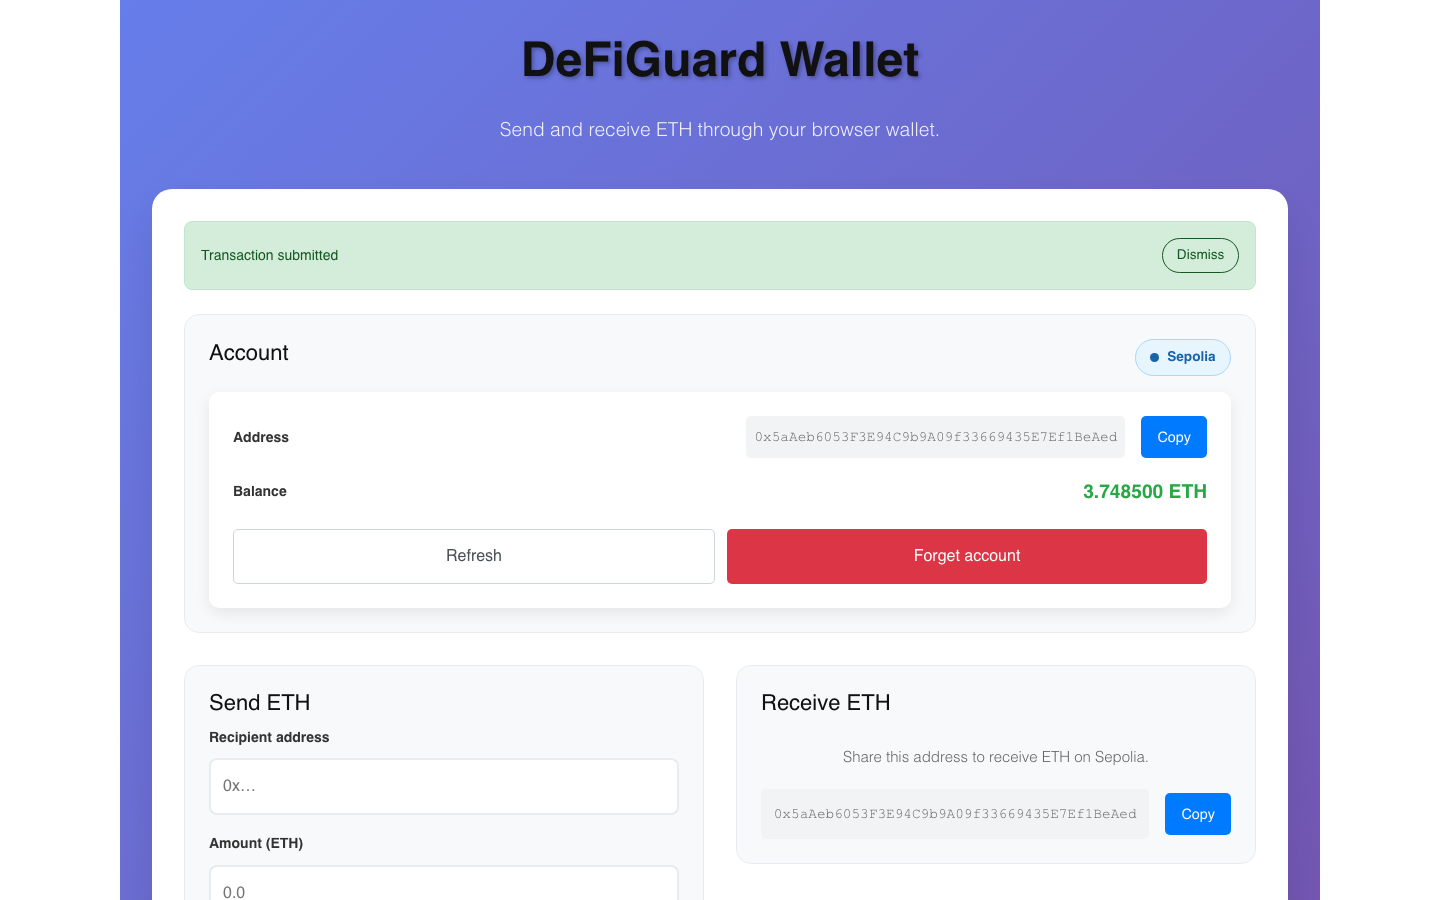
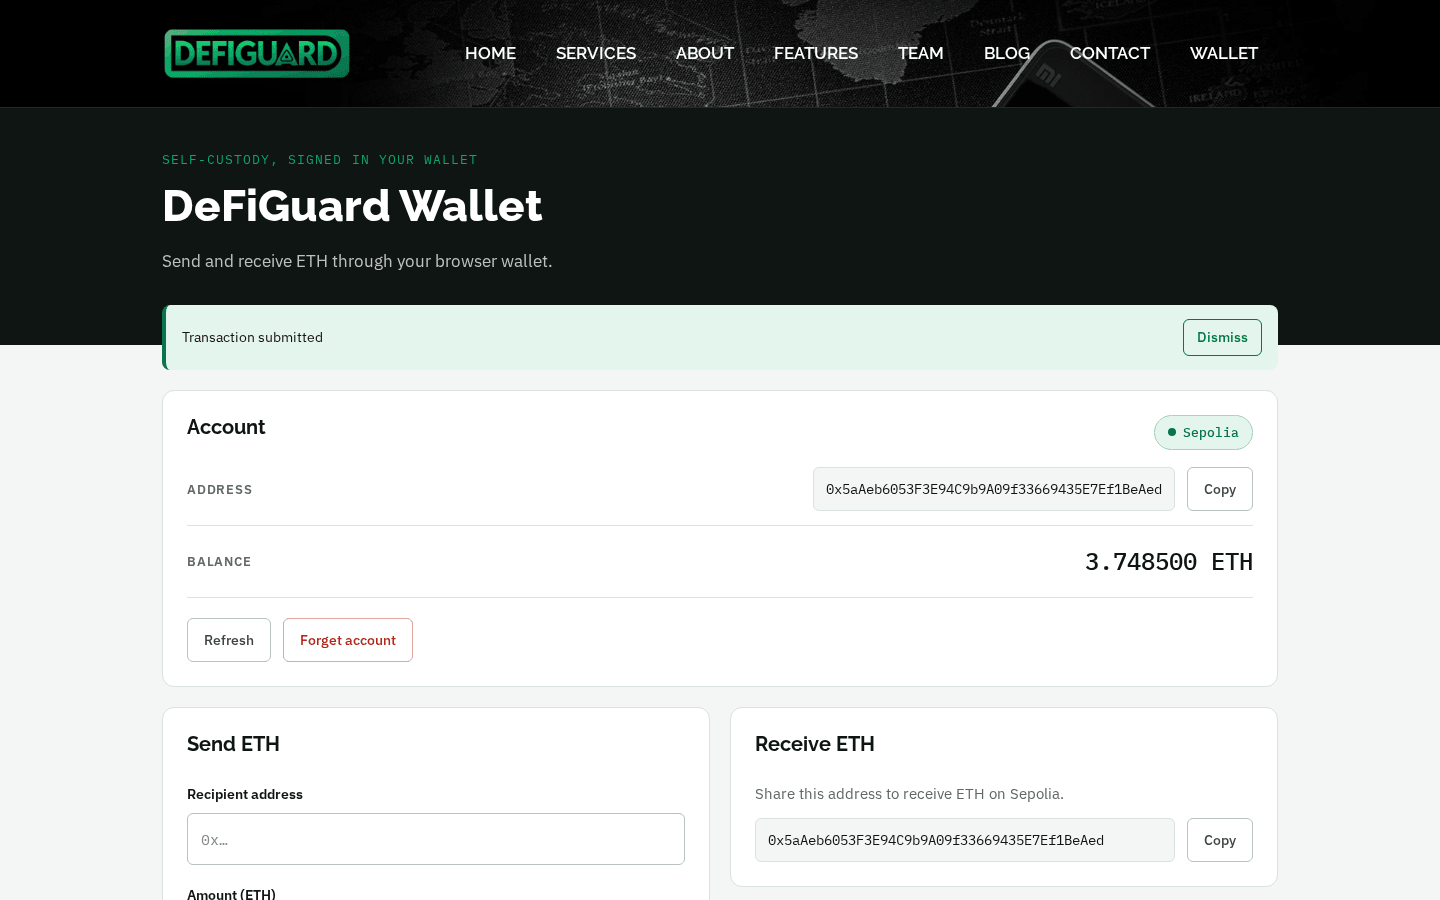
Refresh README, screenshots and capture script for the new UI
- screenshots re-captured from the built app at 1440x900, plus phone
  shots of the wallet and of the landing page with its menu open
- capture script drives a mobile context and documents serving the
  build through the API on :8650
- README: Node 22, current test counts and bundle sizes, the Socket.IO
  token handshake, a route table with a captured response, and the
  container section now that the image has actually been built
- WALLET_README no longer cites a commit hash from history that is not
  part of this repository

diff --git a/README.md b/README.md
@@ -11,6 +11,11 @@ extension; the signing happens in the wallet, after the user approves it.
 
 ![The wallet with a connected Sepolia account, its balance, and the send and receive cards](docs/screenshots/wallet-connected.png)
 
+<p>
+  <img src="docs/screenshots/wallet-mobile.png" width="280" alt="The wallet at phone width: account card with network badge, address, balance and full-width buttons">
+  <img src="docs/screenshots/home-mobile.png" width="280" alt="The landing page at phone width with the navigation menu open">
+</p>
+
 ## Pricing the transfer before validating it
 
 `amount <= balance` is the wrong question. A user who types their whole balance passes
@@ -111,8 +116,8 @@ application mocked.
 
 It is also how the screenshots above exist. `scripts/capture-screenshots.mjs` injects a
 fake provider with Playwright's `addInitScript` before any application code runs, then
-drives the real UI at 1440x900. The two rows in the history table were produced by filling
-in and submitting the form; they were not seeded.
+drives the real UI at 1440x900 and 390x844. The rows in the history table were produced
+by filling in and submitting the form; they were not seeded.
 
 web3.js is kept for exactly one job — `Web3.utils.isAddress`, because checksum validation
 needs keccak. Balances and amounts never go near it.
@@ -124,15 +129,17 @@ lands in its own chunk. Measured with `npm run build`, gzip figures as CRA repor
 
 | Chunk | gzip |
 | --- | --- |
-| `main` — every visitor | 133.5 kB |
-| web3.js chunk — only on `/wallet` | 137.12 kB |
-| `main` CSS | 35.69 kB |
-| `build/static/media` (all emitted assets) | 488 kB |
+| `main` — every visitor | 137.99 kB |
+| web3.js chunk — only on `/wallet` | 135.53 kB |
+| `main` CSS | 35.8 kB |
 
-The four icons on the site are inline SVG rather than an icon font, which is the other
-reason there is no webfont payload.
+The four icons on the site are inline SVG rather than an icon font. Type is Raleway for
+headings with IBM Plex Sans and Plex Mono (addresses, amounts, the network badge), loaded
+from Google Fonts in `public/index.html`.
 
 ## Running it
+
+Node 22 (`.nvmrc`; `engines` says `^22`).
 
 ```bash
 npm install
@@ -159,23 +166,25 @@ npm run build        # production bundle
 `src/` and the API has its own Jest config:
 
 ```
-Test Suites: 7 passed, 7 total
-Tests:       105 passed, 105 total
+Test Suites: 9 passed, 9 total
+Tests:       108 passed, 108 total
 
 Test Suites: 4 passed, 4 total
-Tests:       67 passed, 67 total
+Tests:       69 passed, 69 total
 ```
 
 No test in either suite makes a network request, opens a database, or is capable of
 signing or broadcasting a transaction. The fake provider in `src/lib/wallet/testing/` has
 no key material and no transport.
 
-Re-capturing the screenshots needs a Chromium build for Playwright:
+Re-capturing the screenshots needs a Chromium build for Playwright, and the built app
+served on port 8650 by the API:
 
 ```bash
 npx playwright install chromium
-npm run start-front                    # leave running
-PORT=8650 node scripts/capture-screenshots.mjs
+npm run build
+STATIC_DIR=build API_PORT=8650 npm run start-server   # leave running
+node scripts/capture-screenshots.mjs
 ```
 
 ## Environment variables
@@ -199,25 +208,56 @@ wallet is connected to, so there is no RPC URL to set and no key to supply.
 ## The Express API, and what it is not
 
 `server/` is an account and messaging API — register, log in, list users, set an avatar,
-exchange messages over Socket.IO. **The wallet page never calls it.** It is not part of
+store direct messages, and relay them live over Socket.IO. **The wallet page never calls
+it.** It is not part of
 any flow on this site, and the marketing pages are static.
 
 What it is, taken on its own terms: `server/app.js` builds the Express app with no
 `listen()` and every collaborator injectable, `server/index.js` is process wiring only.
 Controllers are thin HTTP adapters, services hold the rules, and repositories have a
 Mongoose implementation and an in-memory one behind a single interface — which is what
-makes `MONGO_URL` optional rather than fatal, and what lets all 67 API tests run over
+makes `MONGO_URL` optional rather than fatal, and what lets all 69 API tests run over
 supertest with no database. Identity on authenticated routes comes from a verified bearer
 token, not from a URL parameter, and responses are built from an explicit public
 projection so a password hash cannot ride along in one. Reads are paged with the page size
 clamped server-side rather than trusted from the request.
 
-A real captured session — `/health`, register, duplicate register, `/me` with and without
-a token, paginated users, an unknown route — is in
-[`docs/api-session.txt`](docs/api-session.txt), verbatim.
+The socket follows the same rule. A client connects with the token it got from login,
+`io(url, { auth: { token } })`; the handshake is refused without a valid one, the socket's
+user is whoever the token says, and every relayed `msg-receive` carries that verified
+`from`. An earlier version took the user id from the `add-user` payload, so any client
+could register as someone else and receive their messages.
+
+| Route | Auth | Purpose |
+| --- | --- | --- |
+| `GET /health` | no | Liveness, persistence mode, whether auth is enabled |
+| `POST /api/auth/register` | no | Create an account, returns the user and a JWT |
+| `POST /api/auth/login` | no | Exchange username and password for a JWT |
+| `GET /api/auth/me` | yes | The caller's own profile |
+| `GET /api/auth/users?page=&pageSize=` | yes | Everyone except the caller, paged |
+| `POST /api/auth/avatar` | yes | Set the caller's avatar image |
+| `POST /api/messages` | yes | Store a message `{ to, message }` from the caller |
+| `POST /api/messages/search` | yes | The conversation between the caller and `to` |
+
+A real session against the Compose stack — `/health`, register, duplicate register, a bad
+login, `/me` with and without a token, paginated users, sending and reading a message, an
+unknown route, and the socket handshake with and without a token — is in
+[`docs/api-session.txt`](docs/api-session.txt). An excerpt:
+
+```
+$ curl -s -X POST http://localhost:8650/api/auth/login -d '{"username":"grace","password":"wrong"}'
+HTTP 401
+{
+  "error": {
+    "code": "invalid_credentials",
+    "message": "Incorrect username or password."
+  }
+}
+```
 
 The site the wallet lives in is a purchased blockchain-agency template; its copy, team and
-blog entries are the template's placeholder content.
+blog entries are the template's placeholder content, and the team and testimonial photos
+are neutral placeholder silhouettes.
 
 ![The DeFiGuard landing page, a dark blockchain-agency template with the wallet in the nav](docs/screenshots/home.png)
 
@@ -267,12 +307,15 @@ what is implemented now.
 - **Legacy gas only.** Transfers carry `eth_gasPrice` and a gas limit, not an EIP-1559
   `maxFeePerGas`/`maxPriorityFeePerGas` pair. Wallets fill those in, so transfers succeed,
   but the figure in the shortfall message is a legacy-style estimate.
-- **The Mongoose repositories are not integration-tested.** The interface is exercised
-  through the in-memory implementation; the Mongoose side is structurally simple but has
-  not been run against a real MongoDB here.
-- **The contact form does not send mail.** It acknowledges the submission in place and
-  says so.
+- **The Mongoose repositories have no automated tests.** The suites exercise the
+  interface through the in-memory implementation. The Mongoose side has been run by hand
+  against MongoDB 8.2 in the Compose stack (the session in `docs/api-session.txt`), but
+  nothing re-checks it on each change.
+- **Neither the contact form nor the newsletter box sends mail.** Each acknowledges the
+  submission in place and says so. The contact details in the footer are placeholders.
 - **CRA 5 is end-of-life.** Migrating to Vite would touch every file and was not attempted.
+  It also holds Jest at 27 and ESLint at 8, and React Router stays on 6 (the v7 future
+  flags are already on) because CRA's Jest cannot load v7.
 
 ## In a container
 
@@ -281,15 +324,14 @@ JWT_SECRET=$(node -e "console.log(require('crypto').randomBytes(48).toString('he
   docker compose up --build
 ```
 
-Four stages — dependencies, React build, production dependencies, runtime — so the
-shipped image carries no `react-scripts`, no webpack and no test tooling. It runs as the
-unprivileged `node` user under `tini`, so `SIGTERM` reaches the graceful shutdown in
-`server/index.js`, and carries a `HEALTHCHECK` against `/health`. Compose publishes the
-app on <http://localhost:8650> and keeps MongoDB off the host entirely; `JWT_SECRET` is
-required with no default.
+Four stages on `node:22-alpine` — dependencies, React build, production dependencies,
+runtime — so the shipped image carries no `react-scripts`, no webpack and no test
+tooling. It runs as the unprivileged `node` user under `tini`, so `SIGTERM` reaches the
+graceful shutdown in `server/index.js`, and carries a `HEALTHCHECK` against `/health`.
+Compose publishes the app and API together on <http://localhost:8650>, runs MongoDB 8.2
+without publishing it to the host, and refuses to start without `JWT_SECRET`.
 
-**These images have not been built or booted in this environment.** `docker compose
-config -q` parses cleanly; that is the extent of what has been verified.
+`docker compose down -v` stops it and drops the database volume.
 
 ## Licence
 

diff --git a/WALLET_README.md b/WALLET_README.md
@@ -1,22 +1,23 @@
 # Wallet requirements and status
 
-The original `WALLET_README.md` in commit `7ec60cb` ("Eth wallet adapter") is the only
-statement of intent this repository carries — there is no separate brief. This file keeps
-that feature list and records, honestly, which items the first commit delivered and which
+The original `WALLET_README.md`, written alongside the first wallet implementation (the
+"Eth wallet adapter" change, from history that predates this repository), is the only
+statement of intent the project carries — there is no separate brief. This file keeps that
+feature list and records, honestly, which items that first version delivered and which
 were written down but never built.
 
 Usage and troubleshooting now live in the [README](README.md).
 
 ## Feature list, as originally stated
 
-| Stated feature | Status in commit `7ec60cb` | Status now |
+| Stated feature | Status in the first version | Status now |
 | --- | --- | --- |
 | **MetaMask integration** — connect a wallet to interact with Ethereum | Implemented | Implemented, behind an EIP-1193 adapter so any injected provider works |
 | **Send ETH** — send to any address with transaction status | Implemented | Implemented, with gas priced and checked before the wallet is opened |
 | **Receive ETH** — display the address for receiving | Implemented | Implemented; the empty "QR Code" placeholder box was removed |
 | **Balance display** — real-time ETH balance updates | Partially working: the reconnect-on-load path read the web3 instance from state in the tick it was set, so it threw and the balance stayed at `0.0000`; `parseFloat(...).toFixed(4)` also rendered a dust balance as zero | Implemented; balance is read through the client and formatted from wei with BigInt |
 | **Transaction history** — view transaction hashes and status | **Not implemented.** Only the most recent hash appeared inside a success banner, which the next action cleared. The same document listed "Transaction history display" under *Future Enhancements*, contradicting its own feature list | Implemented: a bounded local log per account and chain, with pending/confirmed/failed resolved from the receipt |
-| **Responsive design** — works on desktop and mobile | Implemented (one `max-width: 768px` breakpoint) | Kept, and extended to the elements added since |
+| **Responsive design** — works on desktop and mobile | Implemented (one `max-width: 768px` breakpoint) | Kept and extended; the wallet now shares the site header, whose phone-width menu works without Bootstrap's JavaScript |
 | **Address validation before sending** | Implemented (`web3.utils.isAddress`) | Implemented, plus amount grammar, zero-amount and amount-plus-gas checks |
 | **MetaMask signing; no private key storage** | Implemented — no key material has ever been in this repository | Unchanged, and asserted in the tests |
 | **Network support** — mainnet, Goerli, Sepolia, any EVM chain | **Not implemented.** The page never read or displayed the chain id, so there was no way to tell which network a transfer would go to | Implemented: the connected chain is named on screen and `chainChanged` is followed |
